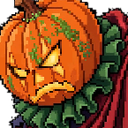
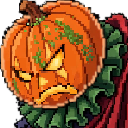
sprite edit

diff --git a/src/scenes/BattleScene.js b/src/scenes/BattleScene.js
@@ -13,8 +13,8 @@ const M = RUTABAGA_MANDRAKE;
 
 // Manual artistic scales on top of the auto-fit + perspective scale.
 const NAVI_MANUAL = 1;
-const BOSS_MANUAL = 1;
-const MANDRAKE_MANUAL = 0.55;
+const BOSS_MANUAL = 0.5;
+const MANDRAKE_MANUAL = 0.25;
 
 // ---- glassy tile palette (base colors live in grid-config.json) ----
 const WHITE = { r: 255, g: 255, b: 255 };
